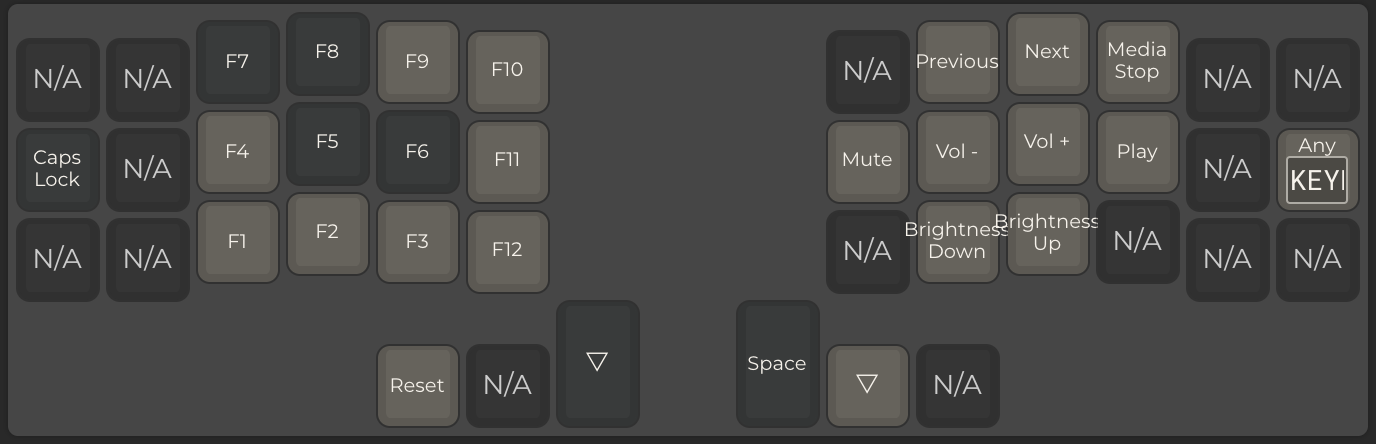
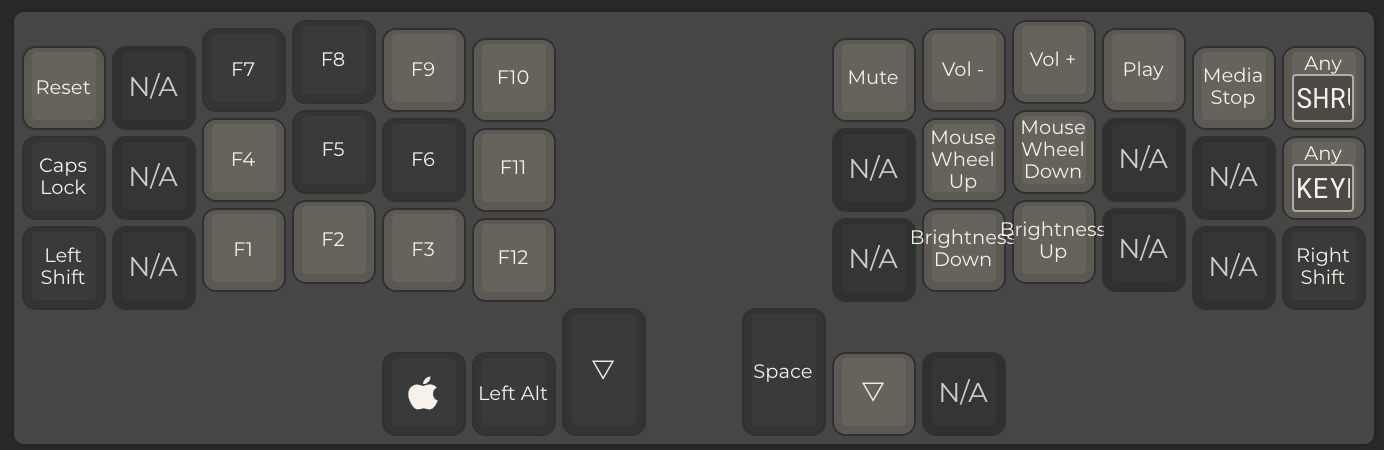
Update layer 3

diff --git a/keyboards/crkbd/keymaps/antonioxdias/keymap.c b/keyboards/crkbd/keymaps/antonioxdias/keymap.c
@@ -70,13 +70,13 @@ MT(MOD_LCTL,KC_ESC),KC_NO,KC_NO,   KC_NO,   KC_NO, KC_LCBR,                     
 
   [_FMedia] = LAYOUT( \
   //,-----------------------------------------------------.                    ,-----------------------------------------------------.
-        SHRUG,   KC_NO,   KC_F7,   KC_F8,   KC_F9,  KC_F10,                        KC_NO, KC_MPRV, KC_MNXT, KC_MSTP,   KC_NO,   KC_NO,\
+        RESET,   KC_NO,   KC_F7,   KC_F8,   KC_F9,  KC_F10,                      KC_MUTE, KC_VOLD, KC_VOLU, KC_MPLY, KC_MSTP,   SHRUG,\
   //|--------+--------+--------+--------+--------+--------|                    |--------+--------+--------+--------+--------+--------|
-      KC_CAPS,   KC_NO,   KC_F4,   KC_F5,   KC_F6,  KC_F11,                      KC_MUTE, KC_VOLD, KC_VOLU, KC_MPLY,   KC_NO,  KEYMAP,\
+      KC_CAPS,   KC_NO,   KC_F4,   KC_F5,   KC_F6,  KC_F11,                        KC_NO, KC_WH_U, KC_WH_D,   KC_NO,   KC_NO,  KEYMAP,\
   //|--------+--------+--------+--------+--------+--------|                    |--------+--------+--------+--------+--------+--------|
-        KC_NO,   KC_NO,   KC_F1,   KC_F2,   KC_F3,  KC_F12,                        KC_NO, KC_BRID, KC_BRIU,   KC_NO,   KC_NO,   KC_NO,\
+      KC_LSFT,   KC_NO,   KC_F1,   KC_F2,   KC_F3,  KC_F12,                        KC_NO, KC_BRID, KC_BRIU,   KC_NO,   KC_NO, KC_RSFT,\
   //|--------+--------+--------+--------+--------+--------+--------|  |--------+--------+--------+--------+--------+--------+--------|
-                                            RESET,   KC_NO, KC_TRNS,     KC_SPC,   KC_NO,   KC_NO \
+                                          KC_LGUI, KC_LALT, KC_TRNS,     KC_SPC,   KC_NO,   KC_NO \
                                       //`--------------------------'  `--------------------------'
   )
 };

diff --git a/keyboards/crkbd/keymaps/antonioxdias/readme.md b/keyboards/crkbd/keymaps/antonioxdias/readme.md
@@ -5,5 +5,5 @@
 ![layer 1](https://raw.githubusercontent.com/antonioxdias/qmk_firmware/master/keyboards/crkbd/keymaps/antonioxdias/assets/layer%201%20-%20NumNav.png)
 ### layer 2 - Symbols
 ![layer 2](https://raw.githubusercontent.com/antonioxdias/qmk_firmware/master/keyboards/crkbd/keymaps/antonioxdias/assets/layer%202%20-%20Symbols.png)
-### layer 2 - FMedia
+### layer 3 - FMedia
 ![layer 3](https://raw.githubusercontent.com/antonioxdias/qmk_firmware/master/keyboards/crkbd/keymaps/antonioxdias/assets/layer%203%20-%20FMedia.png)
